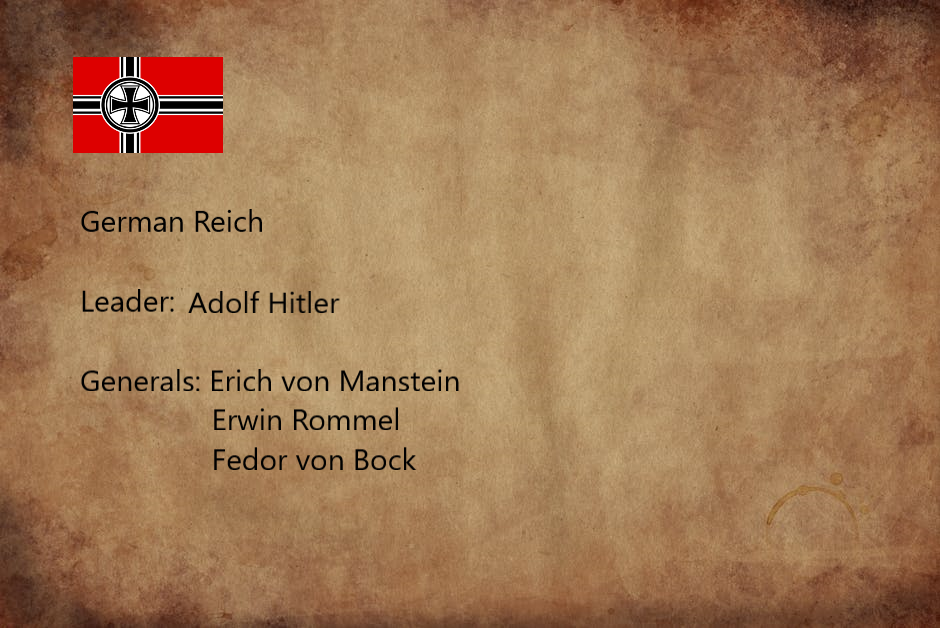
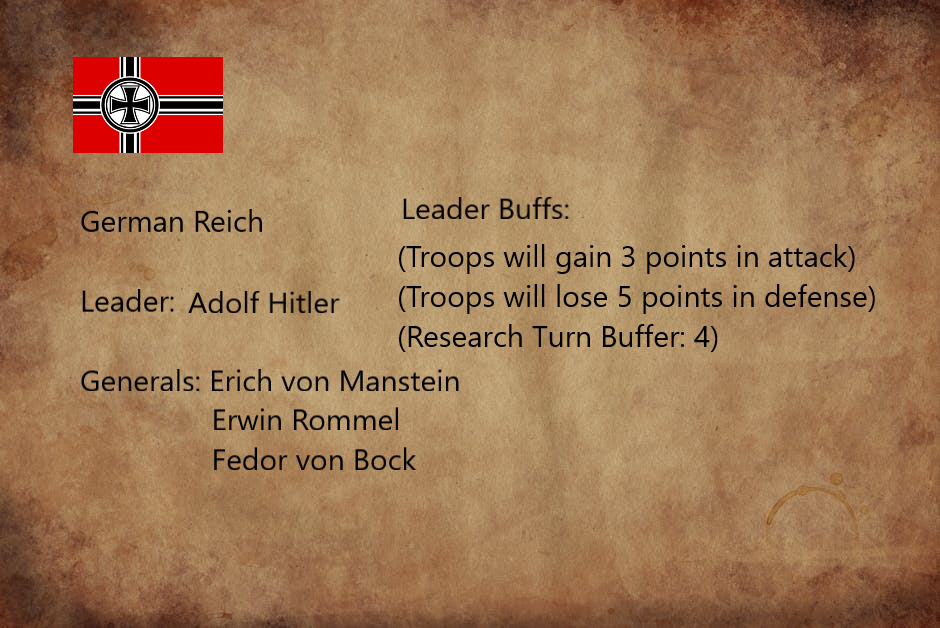
Generals certain effects on units and against certain countries

Changed region(s): [[0.4011, 0.3933, 0.9255, 0.5748], [0.4319, 0.3025, 0.617, 0.3631]]

diff --git a/RISE/src/entities/Player.java b/RISE/src/entities/Player.java
@@ -12,7 +12,7 @@ public class Player {
     Troop[] artilleries, tanks, nerds, infantries;
     Troop[][] troops;
 //    int attackingland;
-    General selected;
+    General selectedGeneral;
     int troopNumber;
 
     public Player(String countr, String leade, String name){
@@ -24,6 +24,7 @@ public class Player {
             country = new Germany(leader);
             country.initializeTroops(troops);
             troopNumber = country.getTroopNumber();
+            setTroopTypePoints();
         }
     }
 
@@ -48,6 +49,14 @@ public class Player {
         }
     }
 
+    public  void printTroops(){
+        for (int j = 0; j < 4; j++) {
+            for (int i = 0; i < troops[j].length; i++) {
+                System.out.println(troops[j][i].getType() + ":   " + troops[j][i].getAttack());
+            }
+        }
+    }
+
     public float attackPointsAt(int coordinates){
         float attack = 0;
         for (int j = 0; j < 4; j++) {
@@ -56,46 +65,59 @@ public class Player {
                     attack += troops[j][i].getAttack();
             }
         }
+        for(int i = 0; i < 4; i++) {
+            attack += selectedGeneral.attackEffectOnCertainUnit(troops, i, coordinates);
+            System.out.println("attackPoints : " + attack);
+        }
         return attack;
     }
 
     public float defensePointsAt(int coordinates){
         float def = 0;
         for(int j = 0; j < 4; j++) {
-            for (int i = 0; i < troopNumber; i++) {
+            for (int i = 0; i < troops[j].length; i++) {
                 if (troops[j][i].getPosition() == coordinates)
                     def += troops[j][i].getDefense();
             }
         }
+        for(int i = 0; i < 4; i++)
+            def += selectedGeneral.defenseEffectOnCertainUnit(troops,i, coordinates);
         return def;
     }
 
     public void selectGeneral(String name){//name of general
-        selected = country.selectGeneral(name);
+        selectedGeneral = country.selectGeneral(name);
     }
 
-    public float generalEffect(String enemy, int attackingland){
-        System.out.println("enemyName: " + enemy + " attackingland:  " + attackingland+ "  selectedGeneral: "+ selected.getName());
-        return selected.againstCountryAttack(enemy, selected.getPointBufferDefense(), selected.getPointBufferAttack(),troops, attackingland);
+    public float generalAggressionDefenseEffect(String enemy, int attackingland){
+        System.out.println("enemyName: " + enemy + " attackingland:  " + attackingland+ "  selectedGeneral: "+ selectedGeneral.getName());
+        return selectedGeneral.againstCountryDefense(enemy,troops, attackingland);
+    }
+
+    public float generalAggressionAttackEffect(String enemy, int attackingland){
+        System.out.println("enemyName: " + enemy + " attackingland:  " + attackingland+ "  selectedGeneral: "+ selectedGeneral.getName());
+        return selectedGeneral.againstCountryAttack(enemy,troops, attackingland);
     }
 
     public boolean attackingTo(Player enemy, int attackingland){
-        float def = enemy.defensePointsAt(attackingland);
-        System.out.println("defens:  " + def);
-        float attack = attackPointsAt(attackingland);
-        System.out.println("attack : " + attack);
-        attack += this.generalEffect(enemy.getCountry(), attackingland);
+        float def = enemy.defensePointsAt(attackingland) + enemy.generalAggressionDefenseEffect(this.getCountry(), attackingland);
+        System.out.println("defff:  " + def);
+
+     //   System.out.println("defens:  " + def);
+        float attack = this.attackPointsAt(attackingland) + this.generalAggressionAttackEffect(enemy.getCountry(), attackingland);
+        System.out.println("attacjjjjk : " + attack);
         System.out.println(attack);
-        return true;
+        if(attack > def)
+            return true;
+        else
+            return false;
     }
 
     public void print(){
         System.out.println(countryName+ " : "+ country.getInUse().getName() + "\n" + troopNumber + "   " + country.getIdeology());
         for (int i = 0 ; i < 4 ; i++) {
-            for (Troop a : troops[i]){
-                System.out.println(a.getType());
-            System.out.println(a.getAttack() + " " + a.getDefense());
-        }
+            System.out.println(troops[i][0].getType());
+            System.out.println(troops[i][0].getAttack() + " " + troops[i][0].getDefense());
         }
     }
 

diff --git a/RISE/src/entities/Countries/General.java b/RISE/src/entities/Countries/General.java
@@ -6,30 +6,37 @@ public class General implements BonusEffects{
     String name;
     boolean selected;
     String aggresion;
-  //  int howManyUnitType;
-  //  int whichUnits[];
-    float pointBufferDefense;
-    float pointBufferAttack;
+    int howManyUnitType;
+    int whichUnits[];
+    float[] attackBuffers; //her element hangi unitin atakta ne kadar buff alıcağını gösteriyor, eğer attackBuffers[2] = 3 ise, Tankların atağı 3 artıyor demek
+    float[] defenseBuffers; //size = 4
     float researchTurnAmmount;
+    float aggresionAttack, aggresionDef;
 
-    public General(String name, float def, float atck, float turn, String aggresion){
+    public General(String name, float[] atckBuffers, float[] defBuffers, float turn, String aggresion, float aggresionPointDef, float aggresionPointAttack){
         this.name = name;
-        pointBufferDefense = def;
-        pointBufferAttack = atck;
+        attackBuffers = atckBuffers;
+        defenseBuffers = defBuffers;
         researchTurnAmmount = turn;
+        this.howManyUnitType = howManyUnitType;
+        this.whichUnits = whichUnits;
         this.aggresion = aggresion;
+        if(aggresion != null){
+            aggresionAttack = aggresionPointAttack;
+            aggresionDef = aggresionPointDef;
+        }
     }
 
     public void setSelected() {
         selected = true;
     }
 
-    public float getPointBufferAttack() {
-        return pointBufferAttack;
+    public float[] getAttackBuffers() {
+        return attackBuffers;
     }
 
-    public float getPointBufferDefense() {
-        return pointBufferDefense;
+    public float[] getDefenseBuffers() {
+        return defenseBuffers;
     }
 
     public float getResearchTurnAmmount() {
@@ -44,21 +51,63 @@ public class General implements BonusEffects{
         return name;
     }
 
+    public void setAggresion(String aggresion) {
+        this.aggresion = aggresion;
+    }
+
     public String getAggresion() {
         return aggresion;
     }
 
-    public float againstCountryAttack(String enemy, float def, float attack, Troop[][] troops, int landNo) {
+
+
+    public float againstCountryAttack(String enemy, Troop[][] troops, int landNo) {
         float ammountOfPoints = 0;
-        if (aggresion.equals(enemy)) {
+        if (aggresion != null && aggresion.equals(enemy)) {
             for (int i = 0; i < 4; i++) {
                 for (Troop a : troops[i]) {
                     if (a.getPosition() == landNo) {
-                        ammountOfPoints += def;
+                        ammountOfPoints += aggresionAttack;
                     }
                 }
             }
         }
         return ammountOfPoints;
+    }
+
+    public float againstCountryDefense(String enemy, Troop[][] troops, int landNo) {
+        float ammountOfPoints = 0;
+        if (aggresion != null && aggresion.equals(enemy)) {
+            for (int i = 0; i < 4; i++) {
+                for (Troop a : troops[i]) {
+                    if (a.getPosition() == landNo) {
+                        ammountOfPoints += aggresionDef;
+                    }
+                }
+            }
+        }
+        return ammountOfPoints;
+    }
+
+    public float attackEffectOnCertainUnit(Troop[][] troops, int unitType, int landNo){
+        float attack= 0;
+            for (Troop a : troops[unitType]) {
+                if (a.getPosition() == landNo) {
+                    attack += attackBuffers[unitType];
+                    System.out.println(attackBuffers[unitType]);
+                }
+            }
+        return attack;
+    }
+
+    public float defenseEffectOnCertainUnit(Troop[][] troops, int unitType, int landNo){
+        float defense = 0;
+            for (Troop a : troops[unitType]) {
+                if (a.getPosition() == landNo) {
+                    defense += defenseBuffers[unitType];
+                    System.out.println(defenseBuffers[unitType]);
+                }
+            }
+        return defense;
     }
 }

diff --git a/RISE/src/entities/Countries/Germany.java b/RISE/src/entities/Countries/Germany.java
@@ -11,11 +11,15 @@ public class Germany extends Country {
     Leader inUse;
     Leader[] leaders = {Hitler, Wilhelm};
 
-    General Manstein = new General("Erich von Manstein", -2, 0, 5, "");
-    General Rommel = new General("Erwin Rommel", 1, 1, 0, "Soviet Union"); //Bu adam normalde Soviete karşı buff alıyo, onu sonradan ekleriz, o tarz şeyleri geçin şimdilik
-   // General Bock = new General("Fedor von Bock", )
+    //general oluştururken önce tüm trooplara etkisini giriyoz sonra belli bi ülkeye karşı varsa onları giriyoz, belli ülkeye yoksa null, 0, 0 gir
+    General Manstein = new General("Erich von Manstein", new float[]{0,0,0,0}, new float[]{-2,-2,-2,-2}, 4, null , 0, 0);
+    General Rommel = new General("Erwin Rommel", new float[]{1,1,1,1}, new float[]{0,0,0,0}, 0, "Soviet Union", -4, -4);
+    General Bock = new General("Fedor von Bock",new float[]{0,2,-1,0}, new float[]{0,2,-1,0}, 0,null, 0,0 );
     General inUseForBattle;
-    General[] generals = {Manstein, Rommel};
+    General[] generals = {Manstein, Rommel, Bock};
+
+    //Land[] lands;    şimdilik boş kalsın bunlar
+    //ResearchTree tree;
 
     public Germany(String leader){
         selected = leader;

diff --git a/RISE/src/sample/GameController.java b/RISE/src/sample/GameController.java
@@ -40,10 +40,12 @@ public class GameController extends Application{
 
     public void initPlayer(String country, String leader){
         Player player1 = new Player(country, leader, "ben");
-        player1.setTroopTypePoints();
+        //player1.print();
+        player1.selectGeneral("Erich von Manstein");
         player1.print();
-        player1.selectGeneral("Erwin Rommel");
-        player1.attackingTo(new Player("China", "Stalin", "sen"), 1);
+        Player player2 = new Player("Soviet Union", "Stalin", "sen");
+        player2 .attackingTo(player1, 1);
+        player1.print();
     }
 
     public boolean attacking(Player player, Player enemy, int landNo){
